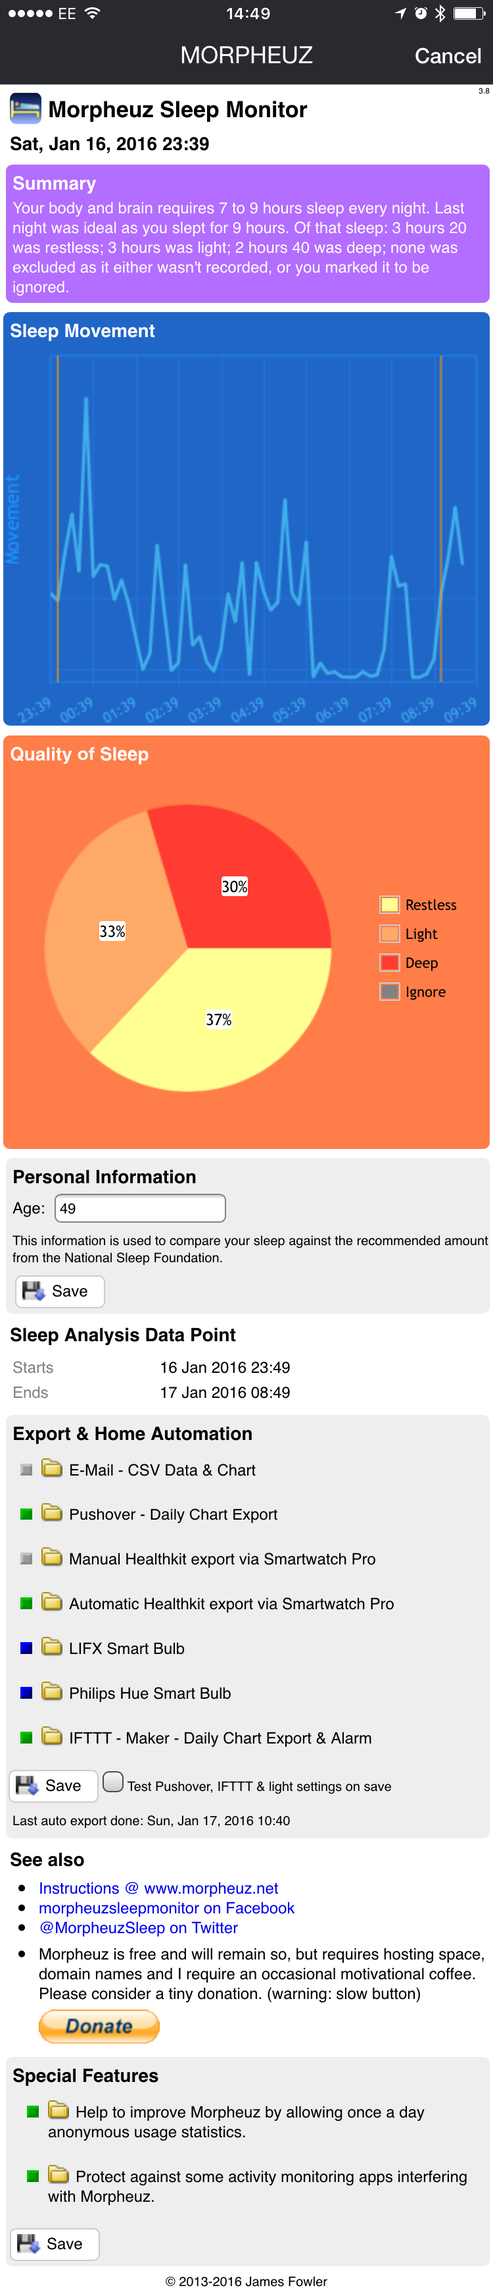
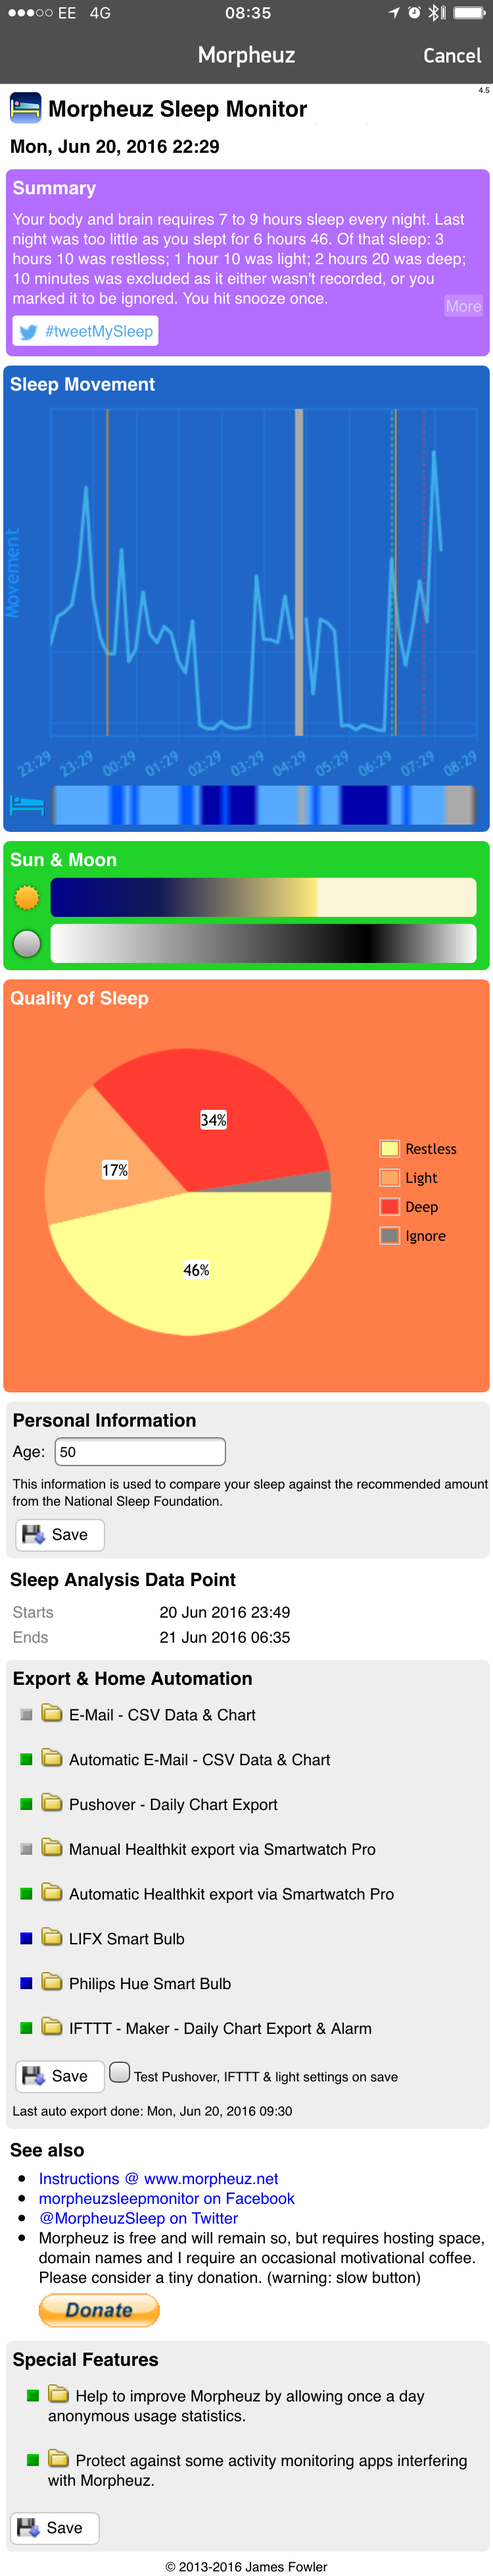
Version 4.5
New config screenshot. Minor fix to view.js

diff --git a/website/morpheuz/view.js b/website/morpheuz/view.js
@@ -269,12 +269,18 @@ function buildEnvironment(baseDate, pLat, pLong, havePosition) {
 
   // Work out a colour stop
   function setColourStop(baseDate, targetDate, colour, grd, stops) {
-    var baseDateInt = baseDate.getTime();
+    
+    if (targetDate === null || targetDate === "null" || typeof targetDate === "undefined") {
+      return;
+    }
+
     var targetDateInt = targetDate.getTime();
 
     if (isNaN(targetDateInt)) {
       return;
     }
+    
+    var baseDateInt = baseDate.getTime();
 
     var diff = targetDateInt - baseDateInt;
 
@@ -371,7 +377,7 @@ function buildEnvironment(baseDate, pLat, pLong, havePosition) {
       ctxs.fillRect(0, 0, widthFloat, 30);
 
     } catch (err) {
-      comsole.log("Sun calc failed " + err.message);
+      console.log("Sun calc failed " + err.message);
     }
 
     // Moon phase
@@ -390,6 +396,7 @@ function buildEnvironment(baseDate, pLat, pLong, havePosition) {
 
       var cm = document.getElementById("moonbar");
       var ctxm = cm.getContext("2d");
+
       // Create gradient
       var grdm = ctxm.createLinearGradient(0, 0, widthFloat, 0);
 
@@ -408,16 +415,15 @@ function buildEnvironment(baseDate, pLat, pLong, havePosition) {
       setColourStop(baseDate, moonTimes2.rise, cMoonUp, grdm, stops);
       setColourStop(baseDate, moonTimes.set, cMoonDown, grdm, stops);
       setColourStop(baseDate, moonTimes2.set, cMoonDown, grdm, stops);
-
       grdm.addColorStop(0, stops.zeroColor);
       grdm.addColorStop(1, stops.oneColor);
 
       // Fill with gradient
       ctxm.fillStyle = grdm;
       ctxm.fillRect(0, 0, widthFloat, 30);
-
+      
     } catch (err) {
-      comsole.log("Moon calc failed " + err.message);
+      console.log("Moon calc failed " + err.message);
     }
 
   }, 500);
